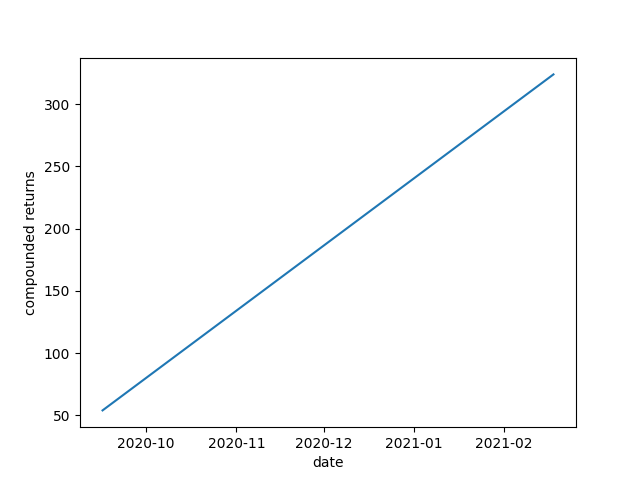
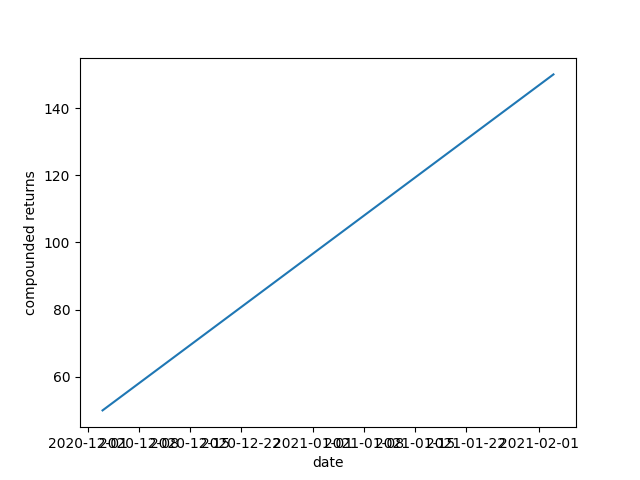
testing file in old config

diff --git a/analytics.py b/analytics.py
@@ -83,32 +83,21 @@ def plot_user_revenue(user_id):
 
     days = timedelta(days = 0)
     month = timedelta(days = 30)
-    print(sign_up_d.iloc[0])
+    # print(sign_up_d)
     # print(end_d)
-    print(user_claims)
-    su = date().fromisoformat(str(sign_up_d.iloc[0]))
-    while su <= end_d:
+    while sign_up_d.iloc[0] <= end_d:
         if days < month:
             days += day
         else:
             comp_returns += user_policies['cost_per_month'].sum()
             revenue_data.append([sign_up_d.iloc[0], comp_returns])
             days = timedelta(days = 0)
-        # print(user_claims.date.values.tolist())
-        # print(type(user_claims.date.values.tolist()[0]))
-        # print(sign_up_d.iloc[0])
-        # print(type(sign_up_d.iloc[0]))
-        # print(user_claims['claim_height'])
-        # user_claims.set_index('date', inplace=True)
-        
-        # print(user_claims)
-        # sign_up_d.iloc[0] = date(2018, 7, 5)
 
-        if su == user_claims.date.values.tolist()[0]:
-            print('works!')
-            # revenue_data.append([sign_up_d.iloc[0], comp_returns])
-        
-        su = su + day
+        if sign_up_d.iloc[0] in user_claims['date'].values:
+            comp_returns -= user_claims['claim_height'].loc[user_claims[user_claims['date']==sign_up_d].index.values].iloc[0]
+            revenue_data.append([sign_up_d.iloc[0], comp_returns])
+
+        sign_up_d = sign_up_d + day
 
     compound_returns = pd.DataFrame(revenue_data, columns=['date', 'compounded returns'])
 
@@ -118,5 +107,5 @@ def plot_user_revenue(user_id):
     plt.savefig('comp_returns_on_user_%s.png' % user_id)
 
 
-plot_user_revenue(332)
+plot_user_revenue(666)
 
